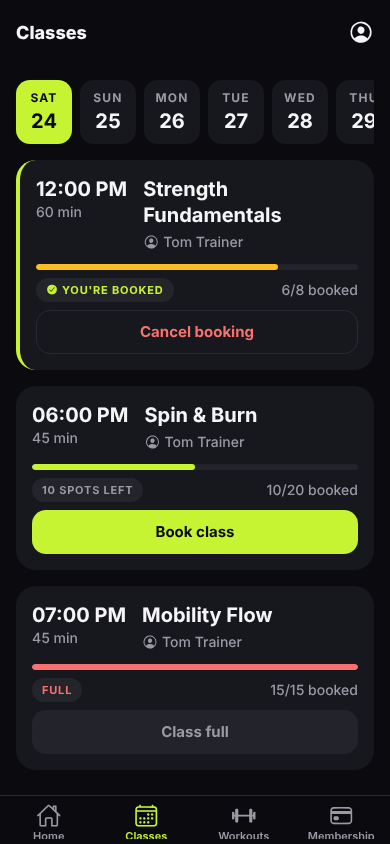
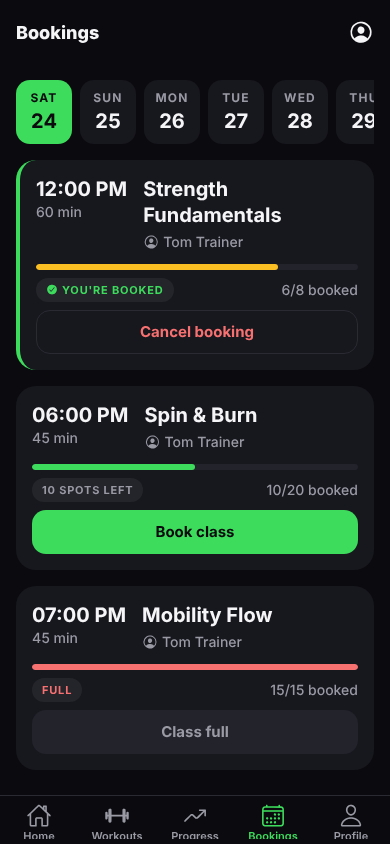
Show membership header on profile, price plans in INR, refresh screenshots
Claude-Session: https://claude.ai/code/session_01DDqGySZw7jZKZ4oP5zr6fE

diff --git a/src/lib/mock-db.ts b/src/lib/mock-db.ts
@@ -92,9 +92,9 @@ export const mockBookings: Booking[] = [
 ];
 
 export const mockPlans: MembershipPlan[] = [
-  { id: 'p-1', name: 'Monthly', priceCents: 4900, currency: 'USD', durationDays: 30 },
-  { id: 'p-2', name: 'Quarterly', priceCents: 12900, currency: 'USD', durationDays: 90 },
-  { id: 'p-3', name: 'Annual', priceCents: 44900, currency: 'USD', durationDays: 365 },
+  { id: 'p-1', name: 'Monthly', priceCents: 149900, currency: 'INR', durationDays: 30 },
+  { id: 'p-2', name: 'Quarterly', priceCents: 399900, currency: 'INR', durationDays: 90 },
+  { id: 'p-3', name: 'Annual', priceCents: 1299900, currency: 'INR', durationDays: 365 },
 ];
 
 export const mockMemberships: Membership[] = [

diff --git a/src/app/member/profile.tsx b/src/app/member/profile.tsx
@@ -17,6 +17,7 @@ export default function MemberProfileScreen() {
 
   return (
     <Screen>
+      <SectionHeader title="Membership" />
       <QueryState
         query={membership}
         isEmpty={(m) => !m}

diff --git a/README.md b/README.md
@@ -13,7 +13,7 @@ lands in their own area after signing in.
 
 <p>
   <img src="docs/screenshots/member-home.png" width="200" alt="Member home" />
-  <img src="docs/screenshots/member-classes.png" width="200" alt="Class booking" />
+  <img src="docs/screenshots/member-classes.png" width="200" alt="Bookings" />
   <img src="docs/screenshots/owner-dashboard.png" width="200" alt="Owner dashboard" />
 </p>
 
